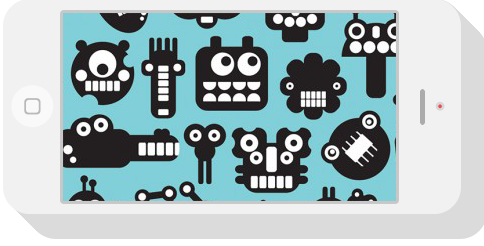
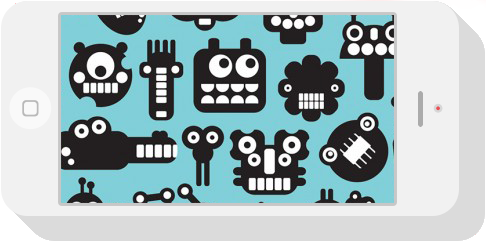
fix: iPhone Horizontal

diff --git a/singolo1.html b/singolo1.html
@@ -24,7 +24,7 @@
                     <div class="arrows arrow_left"></div>
                     <div class="apple">
                         <img class="iPhone-Vert" src="./assets/img/iPhone Vertical.png" alt="iPhone Vertical" width="243" height="487">
-                        <img class="iPhone-Hor" src="./assets/img/iPhone Horizontal.png" alt="iPhone Horizontal" width="484" height="246">
+                        <img class="iPhone-Hor" src="./assets/img/iPhone Horizontal.png" alt="iPhone Horizontal" width="486" height="242">
                     </div>
                     <div class="arrows arrow_right"></div>
                 </div>

diff --git a/singolo1.css b/singolo1.css
@@ -121,7 +121,7 @@ div.slider img.iPhone-Vert {
 }
 
 div.slider img.iPhone-Hor {
-    margin: 0px 0px 117px 63px;
+    margin: 0px 0px 123px 65px;
 }
 
 div.content {
